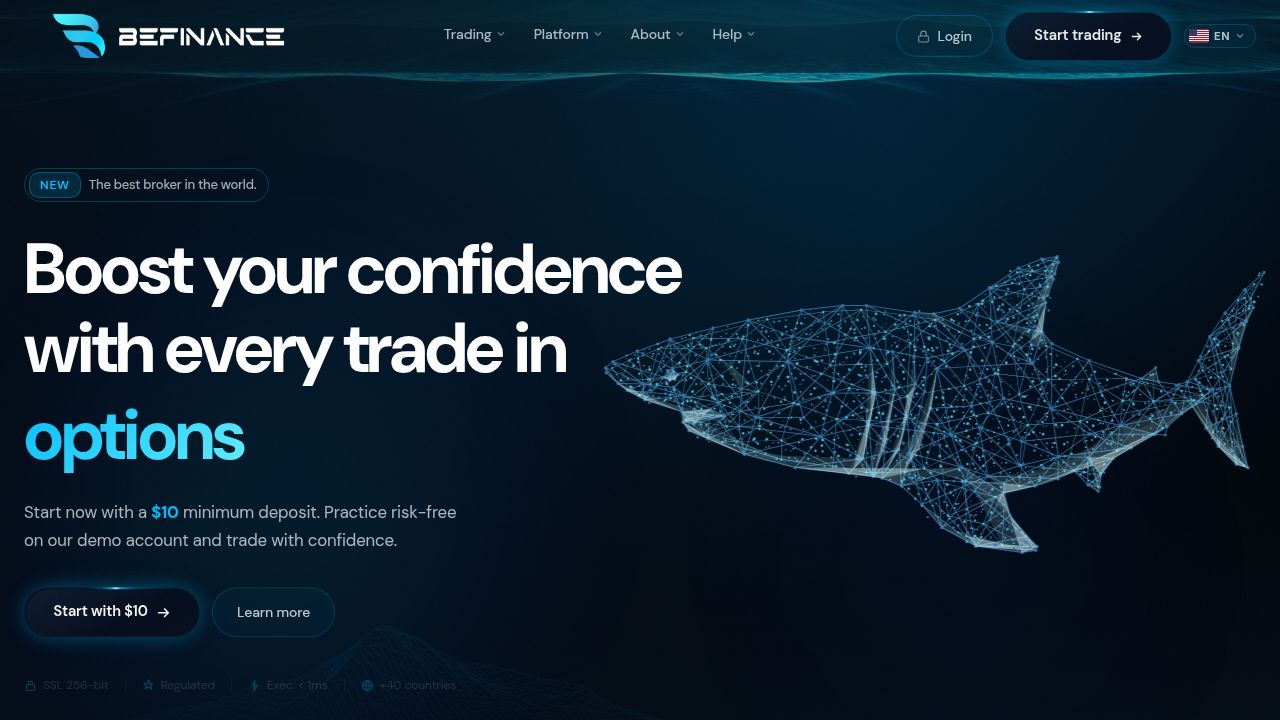
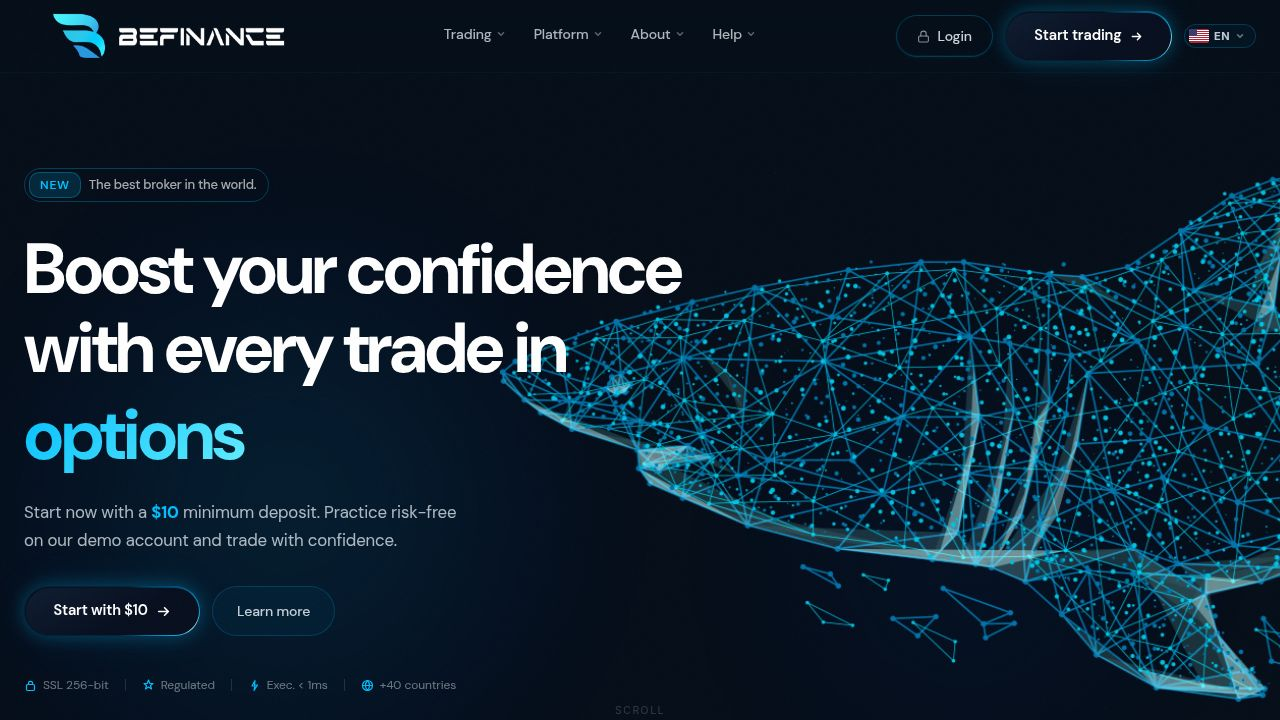
Update payment and withdrawal methods to only include wire transfers
Remove credit/debit card, e-wallet, PayPal, and crypto payment options from deposits and withdrawals sections and update translations.

Replit-Commit-Author: Agent
Replit-Commit-Session-Id: ece5fae1-4f95-4a27-9814-acb3d1426a04
Replit-Commit-Checkpoint-Type: full_checkpoint
Replit-Commit-Event-Id: 695f203a-ef0e-41c5-b7ff-e0c3c4667fe6
Replit-Commit-Screenshot-Url: https://storage.googleapis.com/screenshot-production-us-central1/ab6e7be4-33e6-4d03-968b-7ecb5c1847fe/ece5fae1-4f95-4a27-9814-acb3d1426a04/k5YNqDo
Replit-Helium-Checkpoint-Created: true

diff --git a/artifacts/befinance/src/components/DepositsSection.tsx b/artifacts/befinance/src/components/DepositsSection.tsx
@@ -14,49 +14,20 @@ const BeFinanceIcon = ({ size = 48 }: { size?: number }) => (
   </svg>
 );
 
-const VisaLogo = () => (
-  <svg width="64" height="22" viewBox="0 0 64 22" fill="none">
-    <text x="0" y="18" fontSize="24" fontWeight="800" fontFamily="Arial, sans-serif" fill="#1a1f71" letterSpacing="1">VISA</text>
-  </svg>
-);
-
-const MastercardLogo = () => (
+const WireTransferLogo = () => (
   <svg width="56" height="36" viewBox="0 0 56 36" fill="none">
-    <circle cx="20" cy="18" r="14" fill="#eb001b" />
-    <circle cx="36" cy="18" r="14" fill="#f79e1b" />
-    <path d="M28 7.5C30.8 9.6 32.5 13.1 32.5 18S30.8 26.4 28 28.5C25.2 26.4 23.5 22.9 23.5 18S25.2 9.6 28 7.5Z" fill="#ff5f00" />
-  </svg>
-);
-
-const PayPalLogo = () => (
-  <svg width="56" height="36" viewBox="0 0 56 36" fill="none">
-    <text x="4" y="26" fontSize="20" fontWeight="800" fontFamily="Arial, sans-serif" fill="#003087">Pay</text>
-    <text x="32" y="26" fontSize="20" fontWeight="800" fontFamily="Arial, sans-serif" fill="#0070e0">Pal</text>
-  </svg>
-);
-
-const SkrillLogo = () => (
-  <svg width="48" height="36" viewBox="0 0 48 36" fill="none">
-    <circle cx="24" cy="18" r="16" fill="#862165" opacity="0.15" />
-    <text x="24" y="24" textAnchor="middle" fontSize="16" fontWeight="800" fontFamily="Arial, sans-serif" fill="#862165">S</text>
-  </svg>
-);
-
-const NetellerLogo = () => (
-  <svg width="48" height="36" viewBox="0 0 48 36" fill="none">
-    <circle cx="24" cy="18" r="16" fill="#83c43e" opacity="0.15" />
-    <text x="24" y="24" textAnchor="middle" fontSize="16" fontWeight="800" fontFamily="Arial, sans-serif" fill="#83c43e">N</text>
+    <rect x="4" y="8" width="48" height="20" rx="4" stroke="#00bfff" strokeWidth="1.5" fill="rgba(0,191,255,0.06)" />
+    <path d="M4 15H52" stroke="#00bfff" strokeWidth="1" opacity="0.4" />
+    <rect x="10" y="20" width="10" height="3" rx="1" fill="#00bfff" opacity="0.5" />
+    <rect x="24" y="20" width="18" height="3" rx="1" fill="#00bfff" opacity="0.3" />
   </svg>
 );
 
 const cardDefs = [
   { logo: <BeFinanceIcon size={52} />, amount: "$500.00", labelKey: "deposits.label.deposit", col: 0 },
+  { logo: <WireTransferLogo />, amount: "$250.00", labelKey: "deposits.label.deposit", col: 1 },
+  { logo: <WireTransferLogo />, amount: "$75.00", labelKey: "deposits.label.withdrawal", col: 0 },
   { logo: <BeFinanceIcon size={52} />, amount: "$50.00", labelKey: "deposits.label.withdrawal", col: 1 },
-  { logo: <VisaLogo />, amount: "$50.00", labelKey: "deposits.label.withdrawal", col: 0 },
-  { logo: <MastercardLogo />, amount: "$30.00", labelKey: "deposits.label.deposit", col: 1 },
-  { logo: <PayPalLogo />, amount: "$100.00", labelKey: "deposits.label.deposit", col: 0 },
-  { logo: <SkrillLogo />, amount: "$20.00", labelKey: "deposits.label.withdrawal", col: 1 },
-  { logo: <NetellerLogo />, amount: "$10.00", labelKey: "deposits.label.deposit", col: 0 },
 ];
 
 function PaymentCard({

diff --git a/artifacts/befinance/src/i18n/translations.ts b/artifacts/befinance/src/i18n/translations.ts
@@ -163,7 +163,7 @@ const translations: Record<Lang, Record<string, string>> = {
     "deposits.badgeText": "Fast deposits and withdrawals",
     "deposits.title": "Deposits and withdrawals",
     "deposits.titleHighlight": "fast and secure",
-    "deposits.body": "Choose from multiple payment methods with instant processing and no hidden fees.",
+    "deposits.body": "Fast and secure deposits and withdrawals via wire transfer, with no hidden fees.",
     "deposits.wireTransfer": "Wire Transfer",
     "deposits.wireTransfer.detail": "Bank transfer",
     "deposits.visa.detail": "Credit/Debit",
@@ -233,7 +233,7 @@ const translations: Record<Lang, Record<string, string>> = {
     "faq.q4": "What is the minimum amount to start trading?",
     "faq.a4": "You can start with just $10 on BeFinance. We don't require a high minimum deposit — we democratize access to financial markets so anyone can invest. We operate with 0% commission and the lowest spreads in the market.",
     "faq.q5": "Can I withdraw my profits whenever I want?",
-    "faq.a5": "Yes, you can request withdrawals at any time without bureaucracy. We process withdrawals within 24 hours via wire transfer, credit/debit card or e-wallets.",
+    "faq.a5": "Yes, you can request withdrawals at any time without bureaucracy. We process withdrawals within 24 hours via wire transfer.",
     "faq.q6": "What assets can I trade on BeFinance?",
     "faq.a6": "We offer over 1,000 assets including: stocks, Forex, and crypto — plus OTC assets. All on a single platform.",
     "faq.stillQuestions": "Still have questions?",
@@ -431,7 +431,7 @@ const translations: Record<Lang, Record<string, string>> = {
     "deposits.badgeText": "Depósitos e saques rápidos",
     "deposits.title": "Depósitos e saques",
     "deposits.titleHighlight": "rápidos e seguros",
-    "deposits.body": "Escolha entre diversos métodos de pagamento com processamento instantâneo e sem taxas ocultas.",
+    "deposits.body": "Depósitos e saques rápidos e seguros via transferência bancária, sem taxas ocultas.",
     "deposits.wireTransfer": "Transferência Bancária",
     "deposits.wireTransfer.detail": "Transferência bancária",
     "deposits.visa.detail": "Crédito/Débito",
@@ -501,7 +501,7 @@ const translations: Record<Lang, Record<string, string>> = {
     "faq.q4": "Qual é o valor mínimo para começar a negociar?",
     "faq.a4": "Você pode começar com apenas $10 na BeFinance. Não exigimos um depósito mínimo alto — democratizamos o acesso aos mercados financeiros para que todos possam investir. Operamos com 0% de comissão e os menores spreads do mercado.",
     "faq.q5": "Posso sacar meus lucros quando quiser?",
-    "faq.a5": "Sim, você pode solicitar saques a qualquer momento sem burocracia. Processamos saques em até 24 horas via transferência bancária, cartão de crédito/débito ou carteiras digitais. Não há taxas ocultas ou períodos de espera para saques.",
+    "faq.a5": "Sim, você pode solicitar saques a qualquer momento sem burocracia. Processamos saques em até 24 horas via transferência bancária.",
     "faq.q6": "Quais ativos posso negociar na BeFinance?",
     "faq.a6": "Oferecemos mais de 1.000 ativos incluindo: ações, Forex e cripto — além de ativos OTC. Tudo em uma única plataforma.",
     "faq.stillQuestions": "Ainda tem dúvidas?",
@@ -699,7 +699,7 @@ const translations: Record<Lang, Record<string, string>> = {
     "deposits.badgeText": "Depósitos y retiros rápidos",
     "deposits.title": "Depósitos y retiros",
     "deposits.titleHighlight": "rápidos y seguros",
-    "deposits.body": "Elige entre múltiples métodos de pago con procesamiento instantáneo y sin comisiones ocultas.",
+    "deposits.body": "Depósitos y retiros rápidos y seguros vía transferencia bancaria, sin comisiones ocultas.",
     "deposits.wireTransfer": "Transferencia Bancaria",
     "deposits.wireTransfer.detail": "Transferencia bancaria",
     "deposits.visa.detail": "Crédito/Débito",
@@ -769,7 +769,7 @@ const translations: Record<Lang, Record<string, string>> = {
     "faq.q4": "¿Cuál es el monto mínimo para empezar a operar?",
     "faq.a4": "Puedes empezar con solo $10 en BeFinance. No requerimos un depósito mínimo alto — democratizamos el acceso a los mercados financieros para que cualquiera pueda invertir. Operamos con 0% de comisión y los spreads más bajos del mercado.",
     "faq.q5": "¿Puedo retirar mis ganancias cuando quiera?",
-    "faq.a5": "Sí, puedes solicitar retiros en cualquier momento sin burocracia. Procesamos retiros en 24 horas vía transferencia bancaria, tarjeta de crédito/débito o monederos electrónicos. No hay comisiones ocultas ni períodos de espera para retiros.",
+    "faq.a5": "Sí, puedes solicitar retiros en cualquier momento sin burocracia. Procesamos retiros en 24 horas vía transferencia bancaria.",
     "faq.q6": "¿Qué activos puedo operar en BeFinance?",
     "faq.a6": "Ofrecemos más de 1,000 activos incluyendo: acciones, Forex y cripto — además de activos OTC. Todo en una sola plataforma.",
     "faq.stillQuestions": "¿Aún tienes dudas?",

diff --git a/artifacts/befinance/src/components/WithdrawalsSection.tsx b/artifacts/befinance/src/components/WithdrawalsSection.tsx
@@ -126,8 +126,6 @@ export default function WithdrawalsSection() {
         >
           {[
             { key: "withdrawals.method.wire" },
-            { key: "withdrawals.method.paypal" },
-            { key: "withdrawals.method.crypto" },
           ].map((method) => (
             <div
               key={method.key}